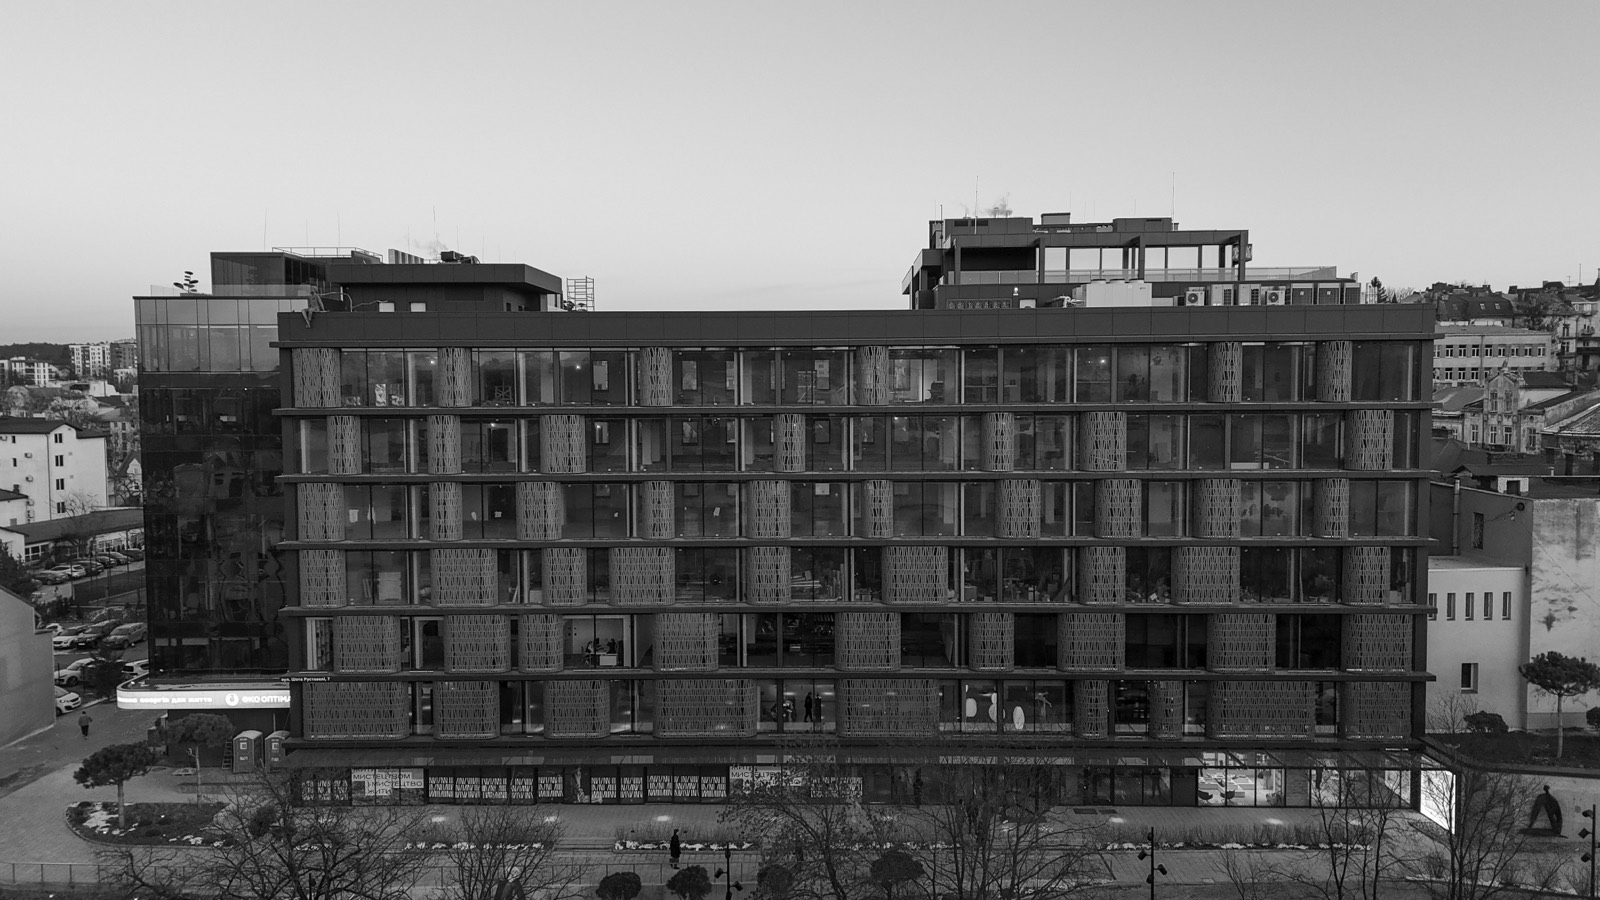
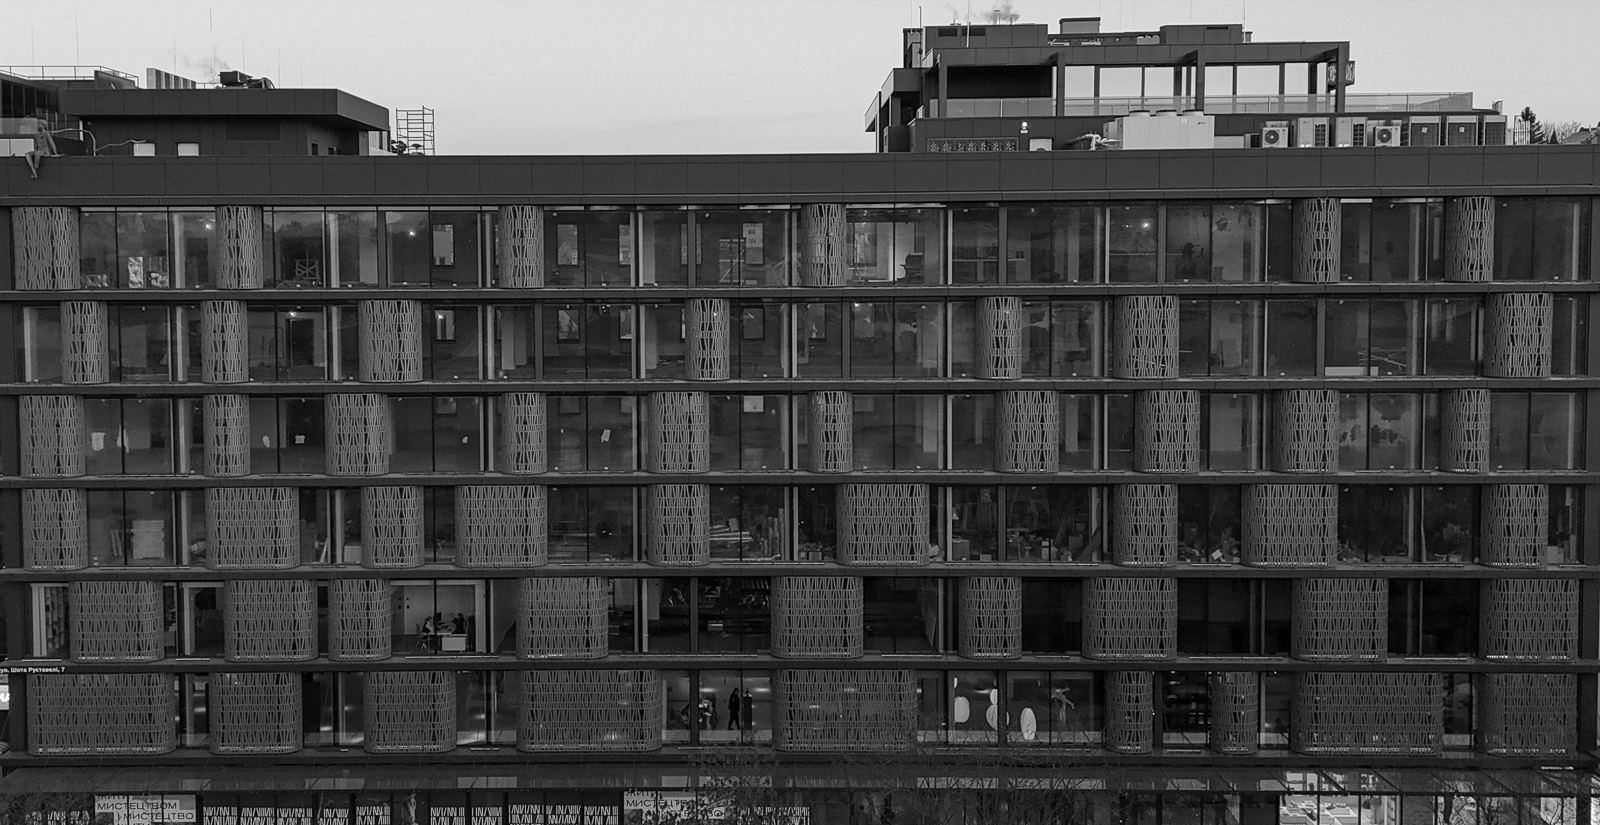
Adjust drawing screen layout to match Figma: cropped photo fills stage, bars overlay with updated styles.

diff --git a/apps/web/src/screens/touch/session/DrawingView.tsx b/apps/web/src/screens/touch/session/DrawingView.tsx
@@ -15,10 +15,12 @@ export interface DrawingViewProps {
 }
 
 /**
- * «Малювання» landscape `29:2078` / `47:5943`: black bars with the logos and
- * the timer badge, the monochrome facade photo in between. Touches on the
- * photo stream to the server (and so to the facade) and leave a local
- * trail in the mode's colours so the user sees what they draw.
+ * «Малювання» landscape `29:2078` / `47:5934`: the monochrome facade photo
+ * (Figma `CROP` window of the 4032 × 2268 source, pre-cropped in
+ * `public/facade-bw.jpg`) fills the whole stage like `Rectangle 5`, the
+ * black bars with the logos and the timer badge lie over it. Touches on
+ * the band between the bars stream to the server (and so to the facade)
+ * and leave a local trail in the mode's colours.
  */
 export const DrawingView = ({ request, endsAt, onTouch }: DrawingViewProps) => {
   const { messages } = useLanguage();
@@ -30,20 +32,20 @@ export const DrawingView = ({ request, endsAt, onTouch }: DrawingViewProps) => {
   });
   return (
     <main className={`${styles.stage} ${styles.drawingStage}`}>
+      <img
+        className={styles.facadeImage}
+        src="/facade-bw.jpg"
+        alt=""
+        width={1600}
+        height={825}
+        draggable={false}
+      />
       <LandscapeBar layout="drawing">
         <span className={styles.badge} role="timer" aria-live="off">
           {messages.touch.drawing.timer}: {formatClock(seconds)}
         </span>
       </LandscapeBar>
       <div ref={surfaceRef} className={styles.facade}>
-        <img
-          className={styles.facadeImage}
-          src="/facade-bw.jpg"
-          alt=""
-          width={1600}
-          height={900}
-          draggable={false}
-        />
         <TrailCanvas ref={trailRef} request={request} />
       </div>
       <footer className={styles.bottom} />

diff --git a/apps/web/src/screens/touch/session/landscape.module.css b/apps/web/src/screens/touch/session/landscape.module.css
@@ -31,6 +31,17 @@
   flex: none;
 }
 
+.drawingStage .bar,
+.drawingStage .facade,
+.drawingStage .bottom {
+  position: relative;
+  z-index: 1;
+}
+
+.drawingStage .bar {
+  background: var(--color-black);
+}
+
 .bar img {
   position: absolute;
   display: block;
@@ -138,9 +149,8 @@
   bottom: 2.3125rem;
 }
 
-/* drawing surface */
+/* drawing surface: the band between the bars, over the photo */
 .facade {
-  position: relative;
   flex: 1;
   min-height: 0;
   overflow: hidden;
@@ -148,8 +158,10 @@
   cursor: crosshair;
 }
 
+/* 47:5934 `Rectangle 5`: the cropped photo under the whole frame. */
 .facadeImage {
-  display: block;
+  position: absolute;
+  inset: 0;
   width: 100%;
   height: 100%;
   object-fit: cover;

diff --git a/docs/design/design-system.md b/docs/design/design-system.md
@@ -369,7 +369,11 @@ y = 241. Маркер `icons/color-marker.svg`: круг 11.5, обводка `#
 для сравнения; в продакшн идут исходники и SVG.
 
 В `apps/web/public` лежат уменьшенные копии (`sips`): `color-wheel.png`
-600, `facade-bw.jpg` 1600 × 900 (ч/б через Generic Gray Profile),
+600, `facade-bw.jpg` 1600 × 825 — окно кадрирования `Rectangle 5` из
+`47:5934` (`imageTransform`: x 0.1773, y 0.2227, w 0.7149, h 0.6553 →
+`--cropOffset 505 715 -c 1486 2882` на исходнике 4032 × 2268), ч/б через
+Generic Gray Profile; на экране фото лежит под всем фреймом, чёрные
+полосы 126 / 40 поверх,
 `modes/*.jpg` 300, `icons/rotate-phone.png` 400, `icons/swipe-hand.png`,
 `zag-short.png` 240 и `icons/brush-{1,2,3}.svg` — три штриха ширины
 (`Vector 7/8/9` фрейма `34:4171`, экспорт `SVG_STRING`; локальный

diff --git a/docs/current-state.md b/docs/current-state.md
@@ -31,6 +31,9 @@ Handoff log between agent sessions. Newest entry on top. See the
     `interactive/modes.ts` filters the mode cards and guards
     `/touch/:mode` and `/touch/:mode/setup` (hidden modes redirect to the
     list); copy, pickers and trail code of the other two modes stay.
+  - Drawing screen photo re-cut to the Figma `CROP` window of
+    `Rectangle 5` (`47:5934`), `public/facade-bw.jpg` 1600 × 825, now
+    under the whole stage with the bars on top (design-system.md § 9).
 - **Next step:** try on real phones (orientation lock, pointer capture,
   fade timing of the trail), then commit stages 2–4; geo-fence remains.
 - **Blockers / open questions:** the forward arrow on the landscape
